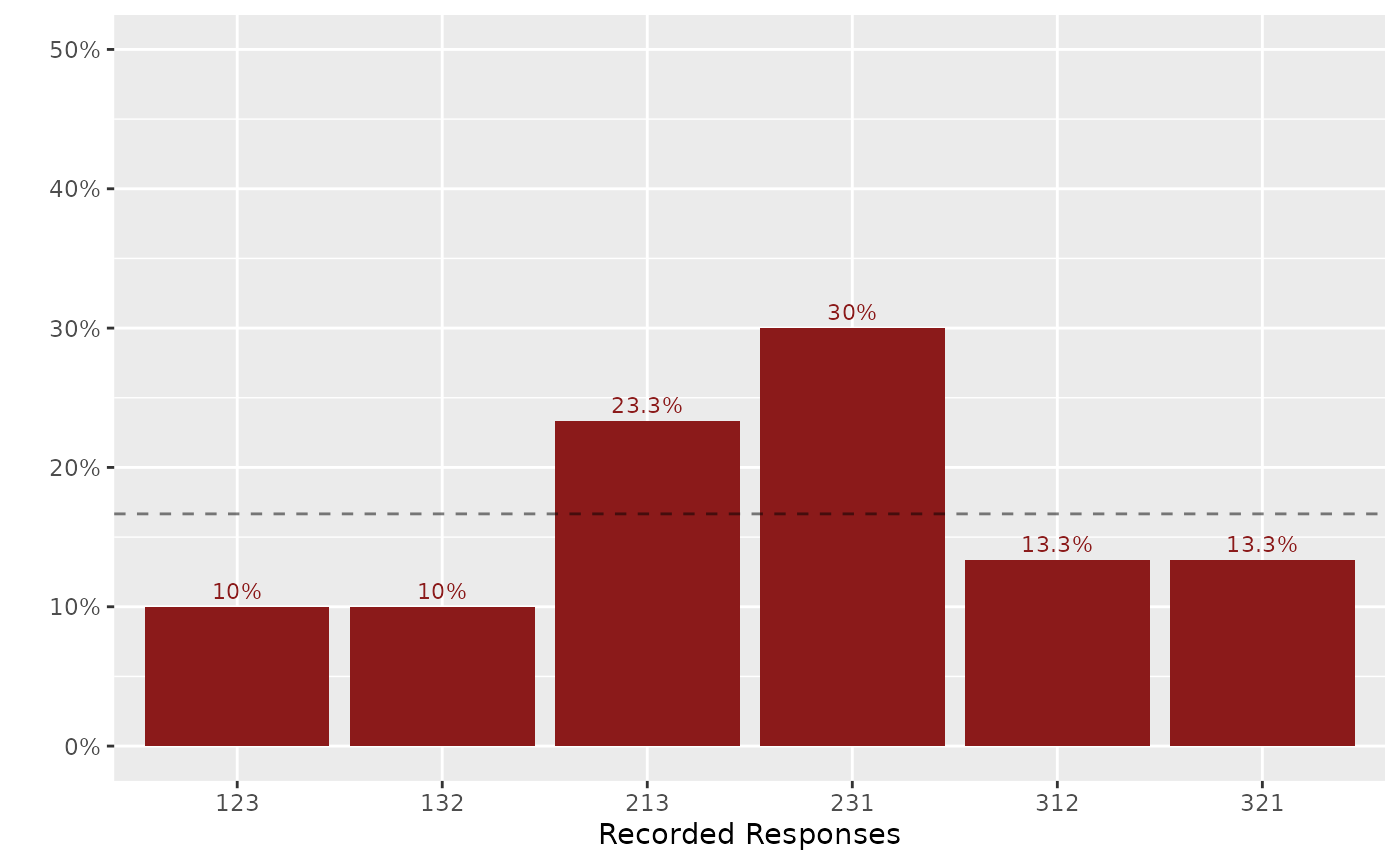
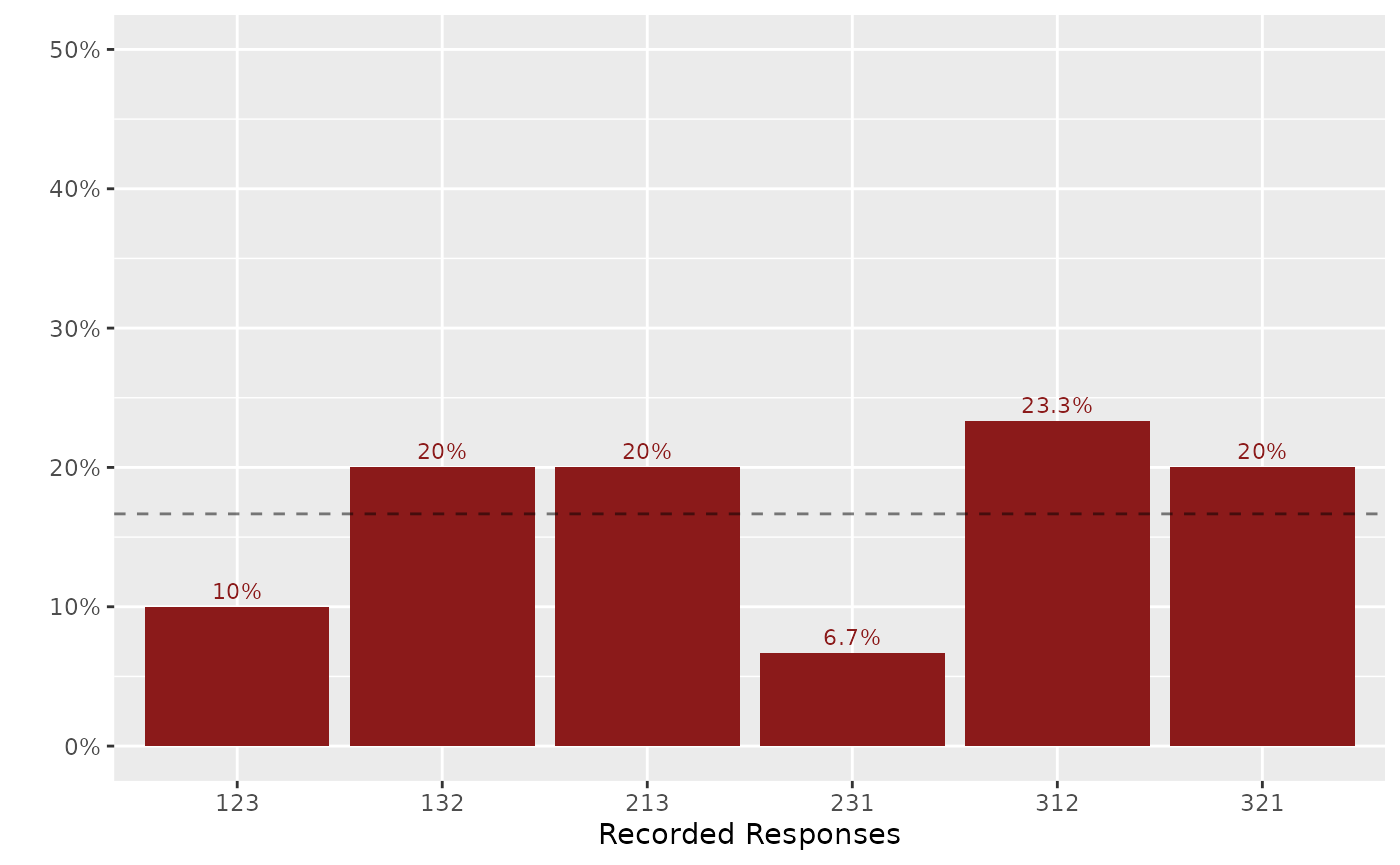
Deploying to gh-pages from @ sysilviakim/rankingQ@207f61008f4f43959eaee644526d74f14266daa3 🚀

Changed region(s): [[0.2457, 0.3434, 0.9829, 0.7803]]

diff --git a/articles/v4-visualizing-rankings.html b/articles/v4-visualizing-rankings.html
@@ -71,7 +71,8 @@ and Seo-young Silvia Kim</h4>
     
     
 <p>The following code chunk shows how to plot the distribution of
-ranking profiles.</p>
+ranking profiles. This can help eyeball whether the ranking data is
+uniformly distributed, which can of course be formally tested.</p>
 <div class="sourceCode" id="cb1"><pre class="downlit sourceCode r">
 <code class="sourceCode R"><span><span class="kw"><a href="https://rdrr.io/r/base/library.html" class="external-link">library</a></span><span class="op">(</span><span class="va">combinat</span><span class="op">)</span></span>
 <span><span class="co">#&gt; </span></span>
@@ -84,6 +85,7 @@ ranking profiles.</p>
 <span><span class="co">#&gt;   method from   </span></span>
 <span><span class="co">#&gt;   +.gg   ggplot2</span></span>
 <span></span>
+<span><span class="fu"><a href="https://rdrr.io/r/base/Random.html" class="external-link">set.seed</a></span><span class="op">(</span><span class="fl">100</span><span class="op">)</span></span>
 <span><span class="va">tab</span> <span class="op">&lt;-</span> <span class="fu"><a href="https://rdrr.io/r/base/lapply.html" class="external-link">lapply</a></span><span class="op">(</span><span class="fu"><a href="https://rdrr.io/pkg/combinat/man/permn.html" class="external-link">permn</a></span><span class="op">(</span><span class="fu"><a href="https://rdrr.io/r/base/seq.html" class="external-link">seq</a></span><span class="op">(</span><span class="fl">3</span><span class="op">)</span><span class="op">)</span>, <span class="va">paste0</span>, collapse <span class="op">=</span> <span class="st">""</span><span class="op">)</span> <span class="op">|&gt;</span></span>
 <span>  <span class="fu"><a href="https://rdrr.io/r/base/sample.html" class="external-link">sample</a></span><span class="op">(</span><span class="fl">30</span>, replace <span class="op">=</span> <span class="cn">TRUE</span><span class="op">)</span> <span class="op">|&gt;</span></span>
 <span>  <span class="fu"><a href="https://rdrr.io/r/base/unlist.html" class="external-link">unlist</a></span><span class="op">(</span><span class="op">)</span> <span class="op">|&gt;</span></span>
